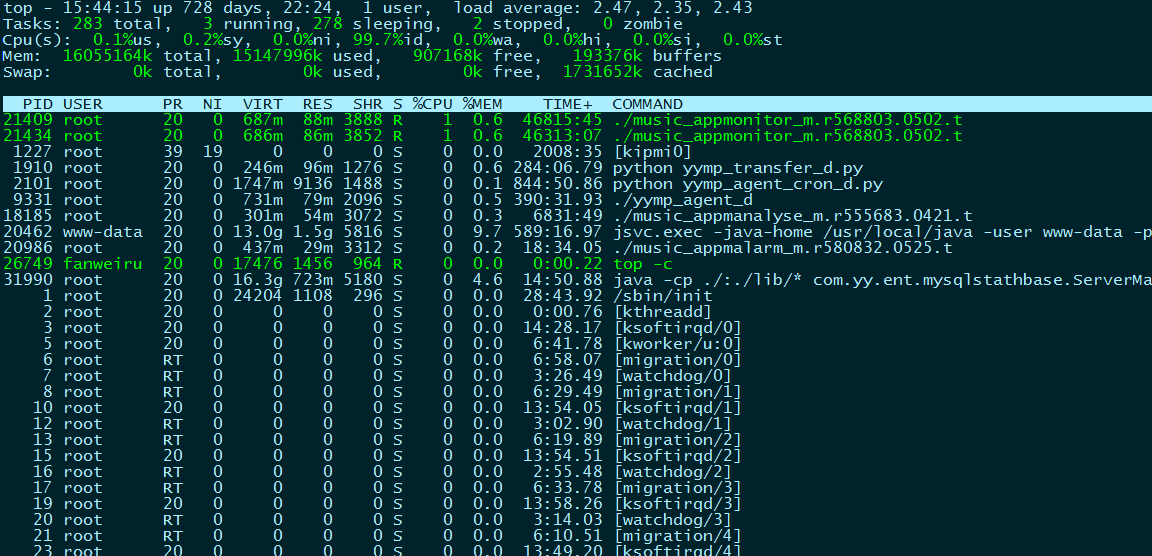
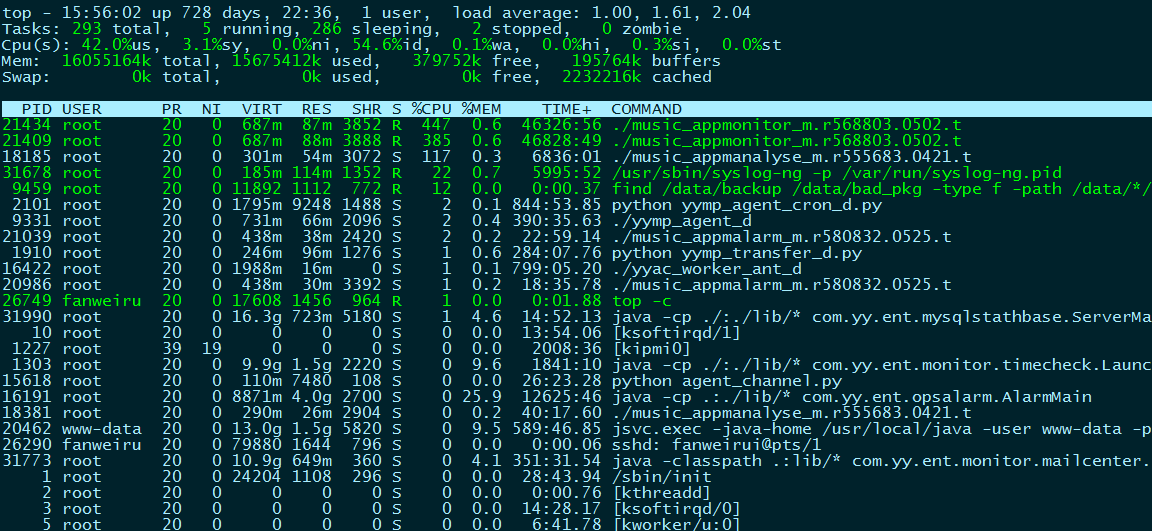
Signed-off-by: magic5650 <magic5650@126.com>

Changed region(s): [[0.0, 0.0, 1.0, 1.0]]

diff --git a/_posts/2017-03-25-linux-top.md b/_posts/2017-03-25-linux-top.md
@@ -8,7 +8,136 @@ tags: linux
 permalink: /archivers/linux-top
 ---
 
-## linux管理员利器——top命令详解
+## linux管理员利器	top命令详解
 
-首先，让我们了解一下输出。top命令会显示系统的很多信息。我们需要理解不同部分输出的意义：默认运行时，top命令会显示如下输出：
-![top.png](file:///assets/image/top.png)
+![image](http://magic5650.github.io/assets/image/top.png)
+
+统计信息区前五行是系统整体的统计信息。第一行是任务队列信息，同 uptime 命令的执行结果。其内容如下：
+
+>* 15:56:02 当前时间
+>* 728 days, 22:36, 系统运行时间
+>* 1 user 当前登录用户数
+>* load average: 1.00, 1.61, 2.04 系统负载，即任务队列的平均长度。三个数值分别为 1分钟、5分钟、15分钟前到现在的平均值。
+
+可以使用'l'命令切换uptime的显示。
+
+第二、三行为进程和CPU的信息。当有多个CPU时，这些内容可能会超过两行。内容如下：
+
+>* Tasks: 
+>* 293 total 进程总数
+>* 5 running 正在运行的进程数
+>* 286 sleeping 睡眠的进程数
+>* 2 stopped 停止的进程数
+>* 0 zombie 僵尸进程数
+
+>* Cpu(s): 
+>* 42.0%us 用户空间占用CPU百分比
+>* 3.1%sy 内核空间占用CPU百分比
+>* 0.0%ni 用户进程空间内改变过优先级的进程占用CPU百分比
+>* 54.6%id 空闲CPU百分比
+>* 0.1%wa 等待输入输出的CPU时间百分比
+>* 0.0%hi：硬件CPU中断占用百分比
+>* 0.3%si：软件中断占用百分比
+>* 0.0%st：虚拟机占用百分比
+
+可以使用't'命令切换显示。
+
+最后两行为内存信息。内容如下：
+
+>* Mem:  
+>* 16055164k total  物理内存总量
+>* 15675412k used 使用的物理内存总量
+>* 379752k free 空闲内存总量
+>* 195764k buffers 用作内核缓存的内存量
+>* Swap:
+>* 0k total 空闲交换区总量
+>* 0k used 使用的交换区总量
+>* 0k free 空闲交换区总量
+>* 2232216k cached 缓冲的交换区总量，该数值即为这些内容已存在于内存中的交换区的大小
+
+进程信息区统计信息区域的下方显示了各个进程的详细信息。首先来认识一下各列的含义。
+
+>* 序号  列名    含义
+>* a    PID     进程id
+>* b    PPID    父进程id
+>* c    RUSER   Real user name
+>* d    UID     进程所有者的用户id
+>* e    USER    进程所有者的用户名
+>* f    GROUP   进程所有者的组名
+>* g    TTY     启动进程的终端名。不是从终端启动的进程则显示为 ?
+>* h    PR      优先级
+>* i    NI      nice值。负值表示高优先级，正值表示低优先级
+>* j    P       最后使用的CPU，仅在多CPU环境下有意义
+>* k    %CPU    上次更新到现在的CPU时间占用百分比
+>* l    TIME    进程使用的CPU时间总计，单位秒
+>* m    TIME+   进程使用的CPU时间总计，单位1/100秒
+>* n    %MEM    进程使用的物理内存百分比
+>* o    VIRT    进程使用的虚拟内存总量，单位kb。VIRT=SWAP+RES
+>* p    SWAP    进程使用的虚拟内存中，被换出的大小，单位kb。
+>* q    RES     进程使用的、未被换出的物理内存大小，单位kb。RES=CODE+DATA
+>* r    CODE    可执行代码占用的物理内存大小，单位kb
+>* s    DATA    可执行代码以外的部分(数据段+栈)占用的物理内存大小，单位kb
+>* t    SHR     共享内存大小，单位kb
+>* u    nFLT    页面错误次数
+>* v    nDRT    最后一次写入到现在，被修改过的页面数。
+>* w    S       进程状态(D=不可中断的睡眠状态,R=运行,S=睡眠,T=跟踪/停止,Z=僵尸进程)
+>* x    COMMAND 命令名/命令行
+>* y    WCHAN   若该进程在睡眠，则显示睡眠中的系统函数名
+>* z    Flags   任务标志，参考 sched.h
+
+默认情况下仅显示比较重要的 PID、USER、PR、NI、VIRT、RES、SHR、S、%CPU、%MEM、TIME+、COMMAND 列。可以通过下面的快捷键来更改显示内容。 
+
+更改显示内容通过 f 键可以选择显示的内容。按 f 键之后会显示列的列表，按 a-z 即可显示或隐藏对应的列，最后按回车键确定。 
+按 o 键可以改变列的显示顺序。按小写的 a-z 可以将相应的列向右移动，而大写的 A-Z 可以将相应的列向左移动。最后按回车键确定。 
+按大写的 F 或 O 键，然后按 a-z 可以将进程按照相应的列进行排序。而大写的 R 键可以将当前的排序倒转。
+
+### 命令使用
+
+top使用格式
+
+top [-] [d] [p] [q] [c] [C] [S] [s]  [n]
+
+参数说明
+```
+d 指定每两次屏幕信息刷新之间的时间间隔。当然用户可以使用s交互命令来改变之。 
+p 通过指定监控进程ID来仅仅监控某个进程的状态。 
+q 该选项将使top没有任何延迟的进行刷新。如果调用程序有超级用户权限，那么top将以尽可能高的优先级运行。 
+S 指定累计模式 
+s 使top命令在安全模式中运行。这将去除交互命令所带来的潜在危险。 
+i 使top不显示任何闲置或者僵死进程。 
+c 显示整个命令行而不只是显示命令名 
+```
+
+其他实用命令
+下面介绍在top命令执行过程中可以使用的一些交互命令。从使用角度来看，熟练的掌握这些命令比掌握选项还重要一些。这些命令都是单字母的，如果在命令行选项中使用了s选项，则可能其中一些命令会被屏蔽掉。
+
+```
+Ctrl+L 擦除并且重写屏幕。 
+h或者? 显示帮助画面，给出一些简短的命令总结说明。 
+k       终止一个进程。系统将提示用户输入需要终止的进程PID，以及需要发送给该进程什么样的信号。一般的终止进程可以使用15信号；如果不能正常结束那就使用信号9强制结束该进程。默认值是信号15。在安全模式中此命令被屏蔽。 
+i 忽略闲置和僵死进程。这是一个开关式命令。 
+q 退出程序。 
+r 重新安排一个进程的优先级别。系统提示用户输入需要改变的进程PID以及需要设置的进程优先级值。输入一个正值将使优先级降低，反之则可以使该进程拥有更高的优先权。默认值是10。 
+S 切换到累计模式。 
+s 改变两次刷新之间的延迟时间。系统将提示用户输入新的时间，单位为s。如果有小数，就换算成m s。输入0值则系统将不断刷新，默认值是5 s。需要注意的是如果设置太小的时间，很可能会引起不断刷新，从而根本来不及看清显示的情况，而且系统负载也会大大增加。 
+f或者F 从当前显示中添加或者删除项目。 
+o或者O 改变显示项目的顺序。 
+l 切换显示平均负载和启动时间信息。 
+m 切换显示内存信息。 
+t 切换显示进程和CPU状态信息。 
+c 切换显示命令名称和完整命令行。 
+M 根据驻留内存大小进行排序。 
+P 根据CPU使用百分比大小进行排序。 
+T 根据时间/累计时间进行排序。 
+W 将当前设置写入~/.toprc文件中。这是写top配置文件的推荐方法。
+```
+
+附常用操作:
+
+```
+top   //每隔3秒显式所有进程的资源占用情况
+top -d 2  //每隔2秒显式所有进程的资源占用情况
+top -c  //每隔5秒显式进程的资源占用情况，并显示进程的命令行参数(默认只有进程名)
+top -p 12345 -p 6789//每隔5秒显示pid是12345和pid是6789的两个进程的资源占用情况
+top -d 2 -c -p 123456 //每隔2秒显示pid是12345的进程的资源使用情况，并显式该进程启动的命令行参数
+```
